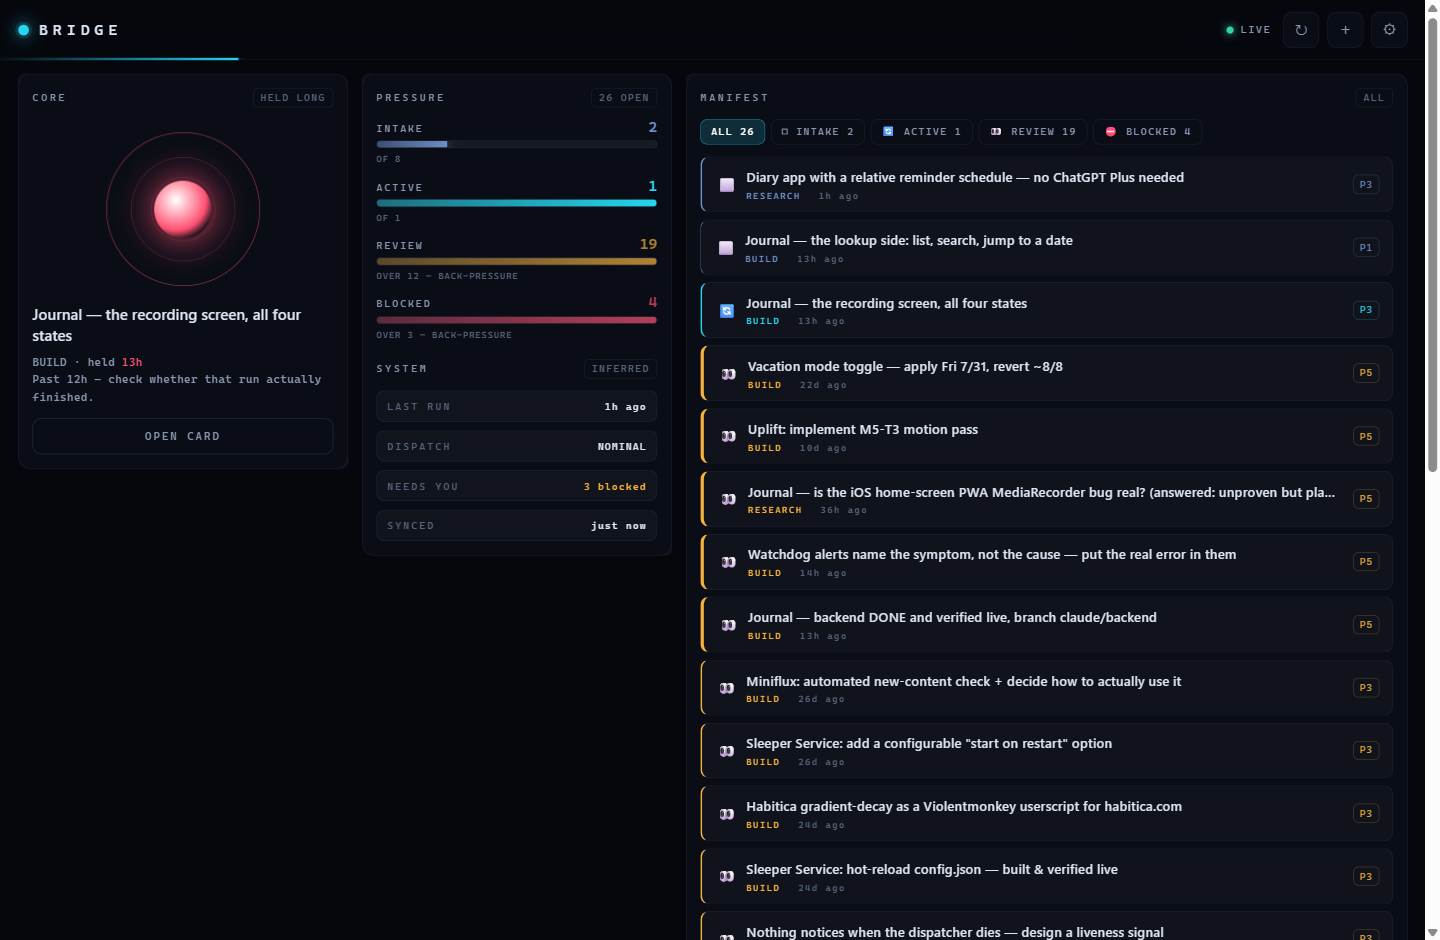
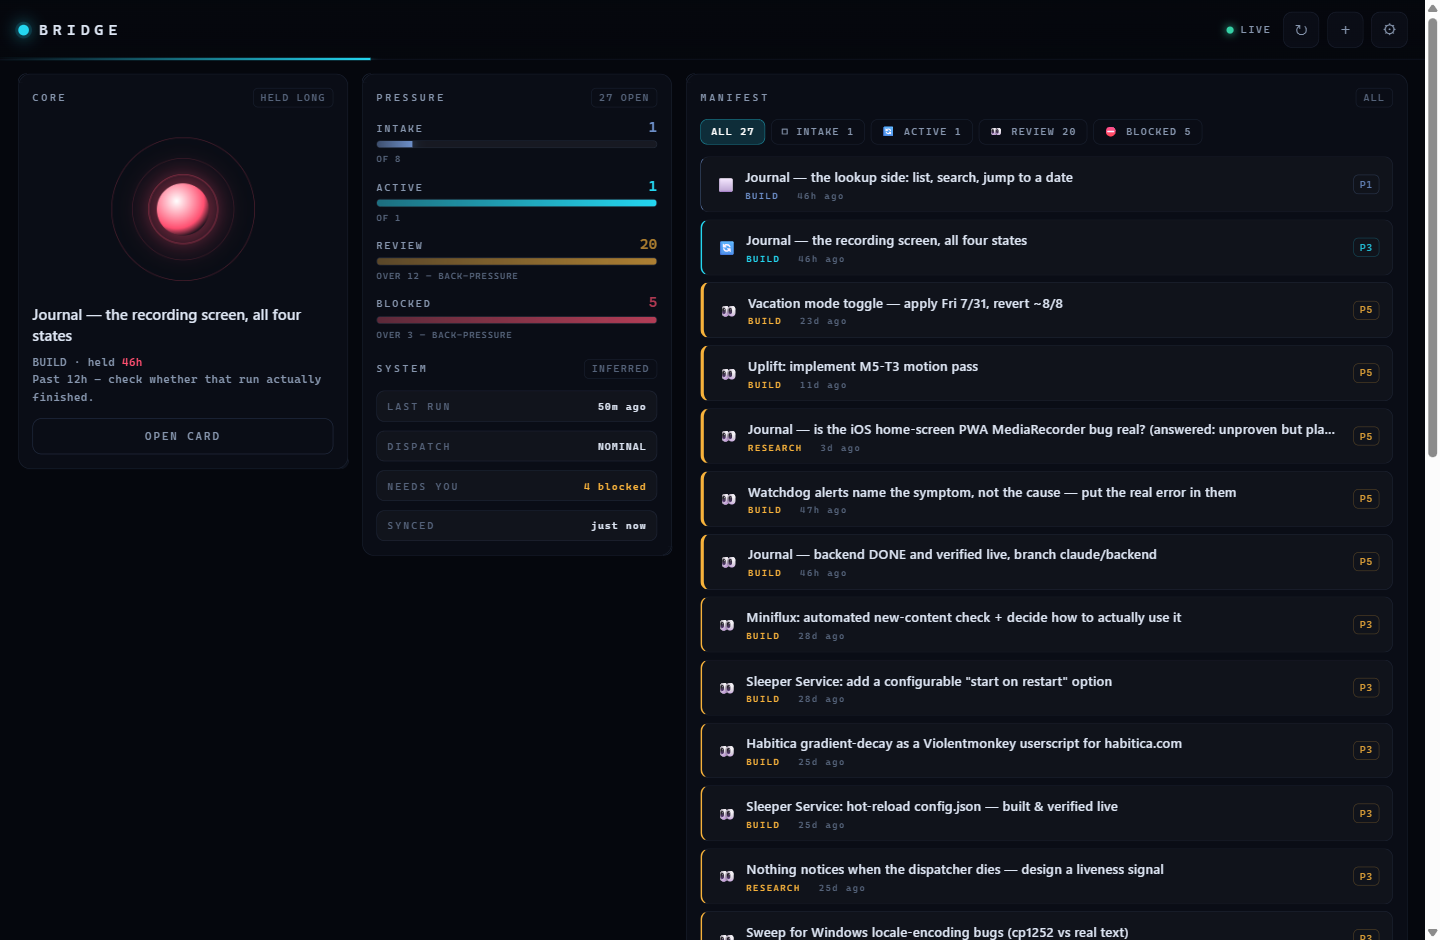
Add standard mobile-web-app-capable meta alongside Apple's deprecated one
Chrome warns the Apple-prefixed name is deprecated; shipping both keeps the
standalone install path working on older iPadOS and silences the warning.
Console is now clean on load.

diff --git a/index.html b/index.html
@@ -4,6 +4,8 @@
 <meta charset="utf-8">
 <meta name="viewport" content="width=device-width, initial-scale=1, viewport-fit=cover">
 <meta name="theme-color" content="#05070d">
+<meta name="mobile-web-app-capable" content="yes">
+<!-- Apple's own name is deprecated but still what older iPadOS reads, so both ship. -->
 <meta name="apple-mobile-web-app-capable" content="yes">
 <meta name="apple-mobile-web-app-status-bar-style" content="black-translucent">
 <meta name="apple-mobile-web-app-title" content="Bridge">
